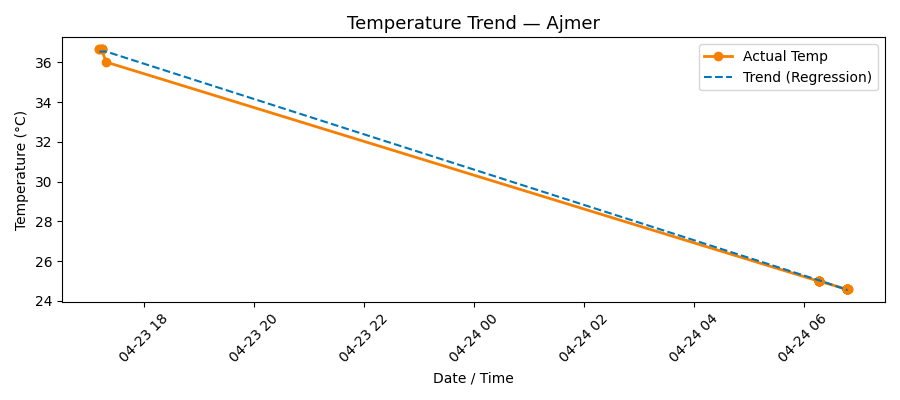
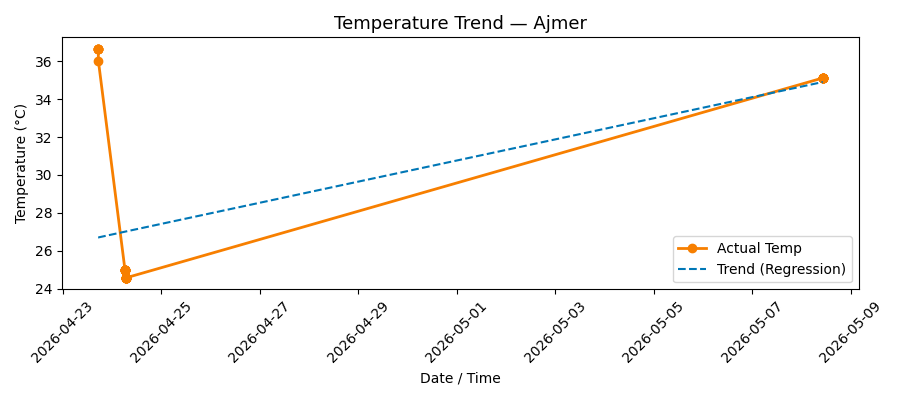
Updated variable name

diff --git a/README.md b/README.md
@@ -1,0 +1,24 @@
+# Live Weather Dashboard
+
+A Python web app that fetches real-time weather data and predicts the next hour's temperature using linear regression.
+
+## Features
+- Live weather data via OpenWeather API
+- City autocomplete with debounced search
+- 1-hour temperature forecasting using linear regression
+- Data continuity validation before predicting
+- Temperature trend chart with regression line
+- Insight generation comparing consecutive readings
+
+## Tech Stack
+Python, Flask, scikit-learn, Pandas, Matplotlib, OpenWeather API
+
+## Setup
+1. Clone the repo
+2. Install dependencies: `pip install -r requirements.txt`
+3. Create a `.env` file with your API key:
+```
+   MY_API_KEY=your_openweather_api_key
+```
+4. Run: `python app.py`
+5. Open `http://localhost:5000`